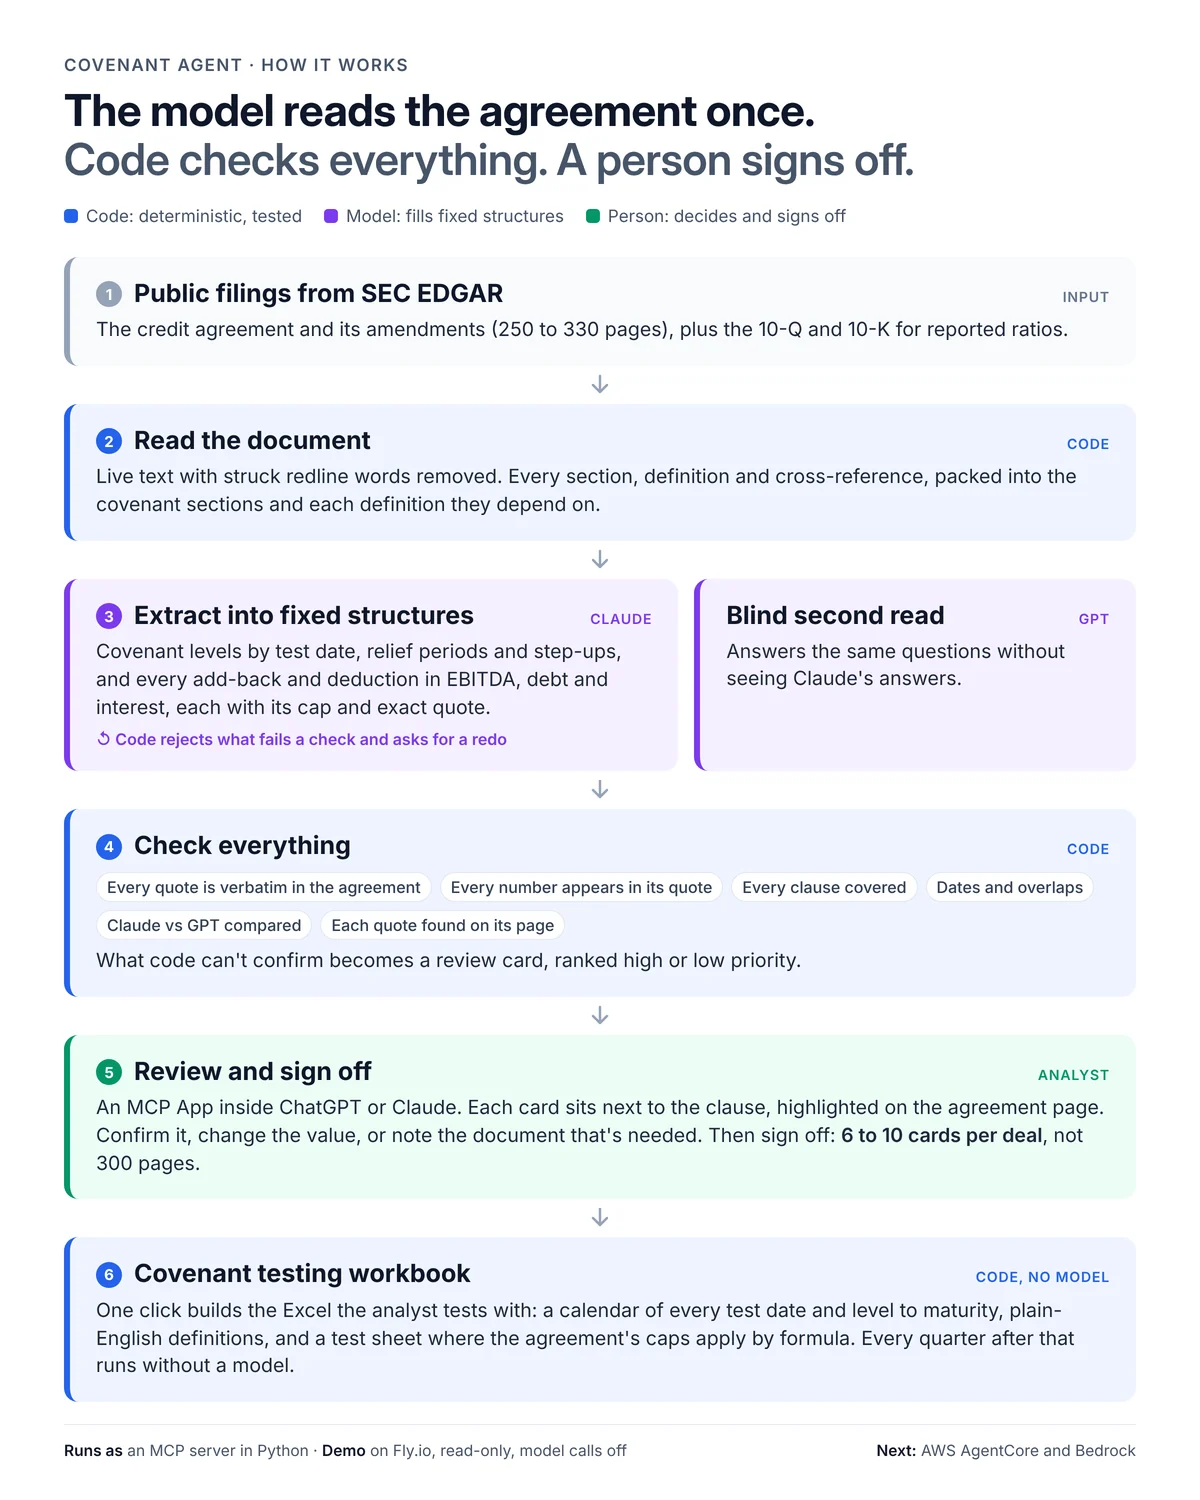
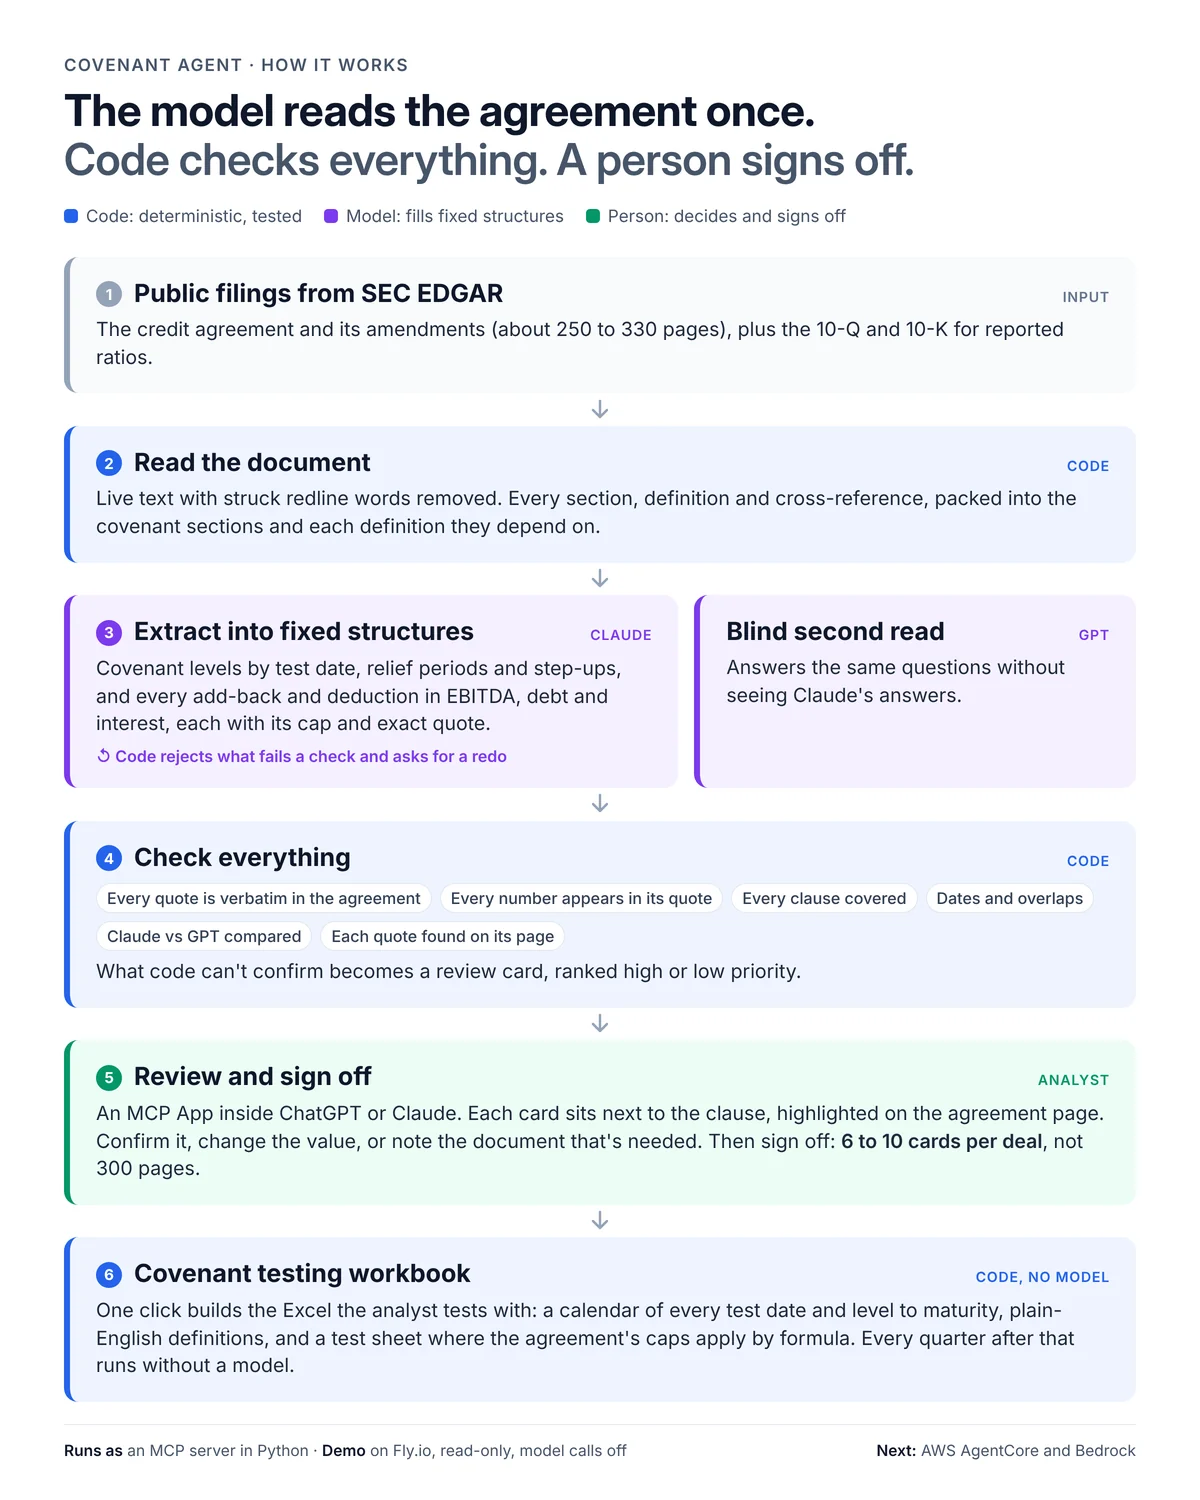
Landing page: 'about 250 to 330 pages' (TriMas is 331); refreshed diagram
Claude-Session: https://claude.ai/code/session_01SkPF47bRJkH2ECK53hrdCU

diff --git a/src/covenant_engine/site/index.html b/src/covenant_engine/site/index.html
@@ -103,7 +103,7 @@
     <h2>What the bank gets</h2>
     <p class="sub">The agreement is read once. After sign-off, every quarterly test runs off structured data with no model and no re-reading, and every number traces back to its sentence.</p>
     <div class="stats">
-      <div class="stat"><b>6 to 10</b><span>items to review per deal, instead of a 250 to 330 page agreement</span></div>
+      <div class="stat"><b>6 to 10</b><span>items to review per deal, instead of an agreement of about 250 to 330 pages</span></div>
       <div class="stat"><b>$1 to $2</b><span>in model calls per agreement, once</span></div>
       <div class="stat"><b>350 / 351</b><span>covenant test dates right on the development deals</span></div>
       <div class="stat"><b>0</b><span>model calls when the covenants are tested</span></div>
